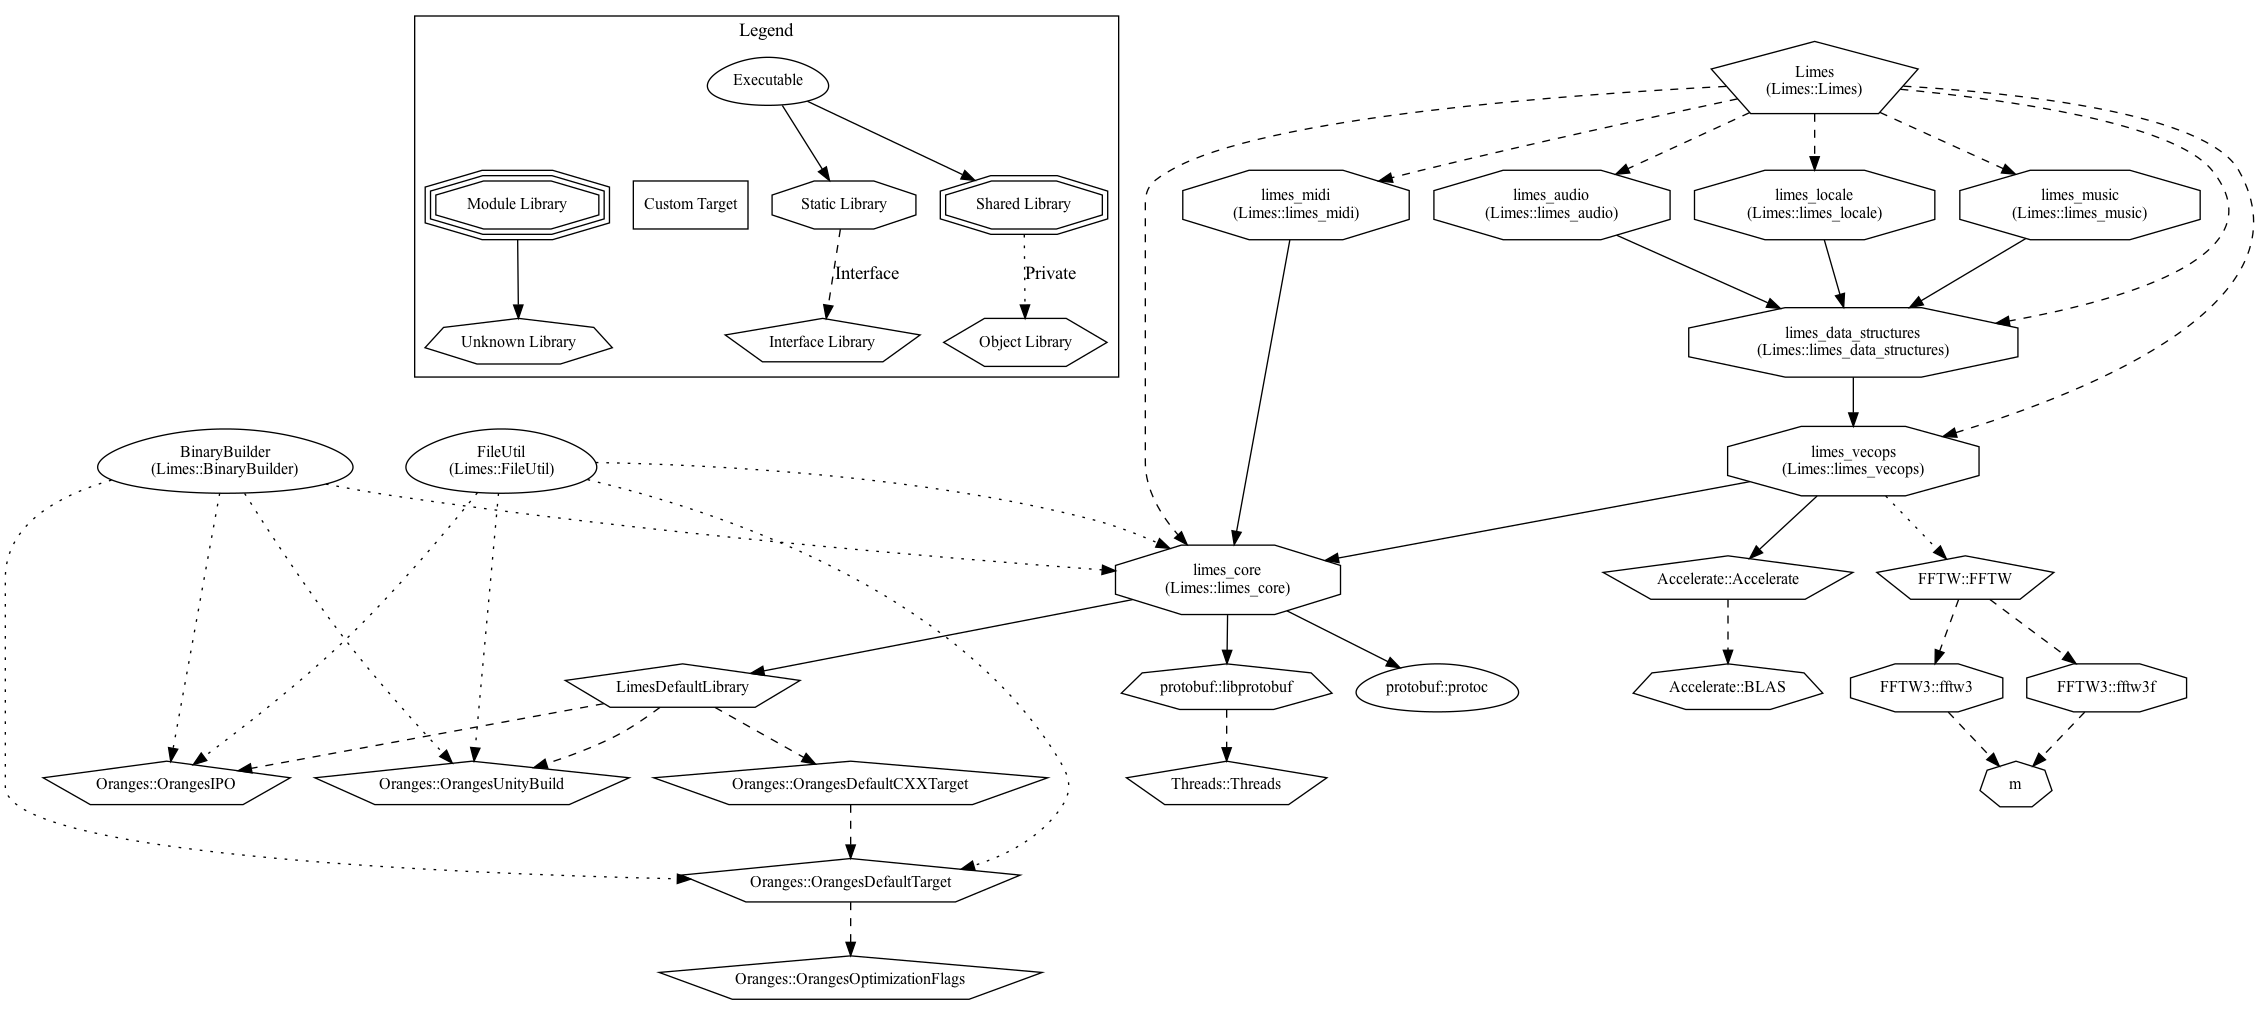
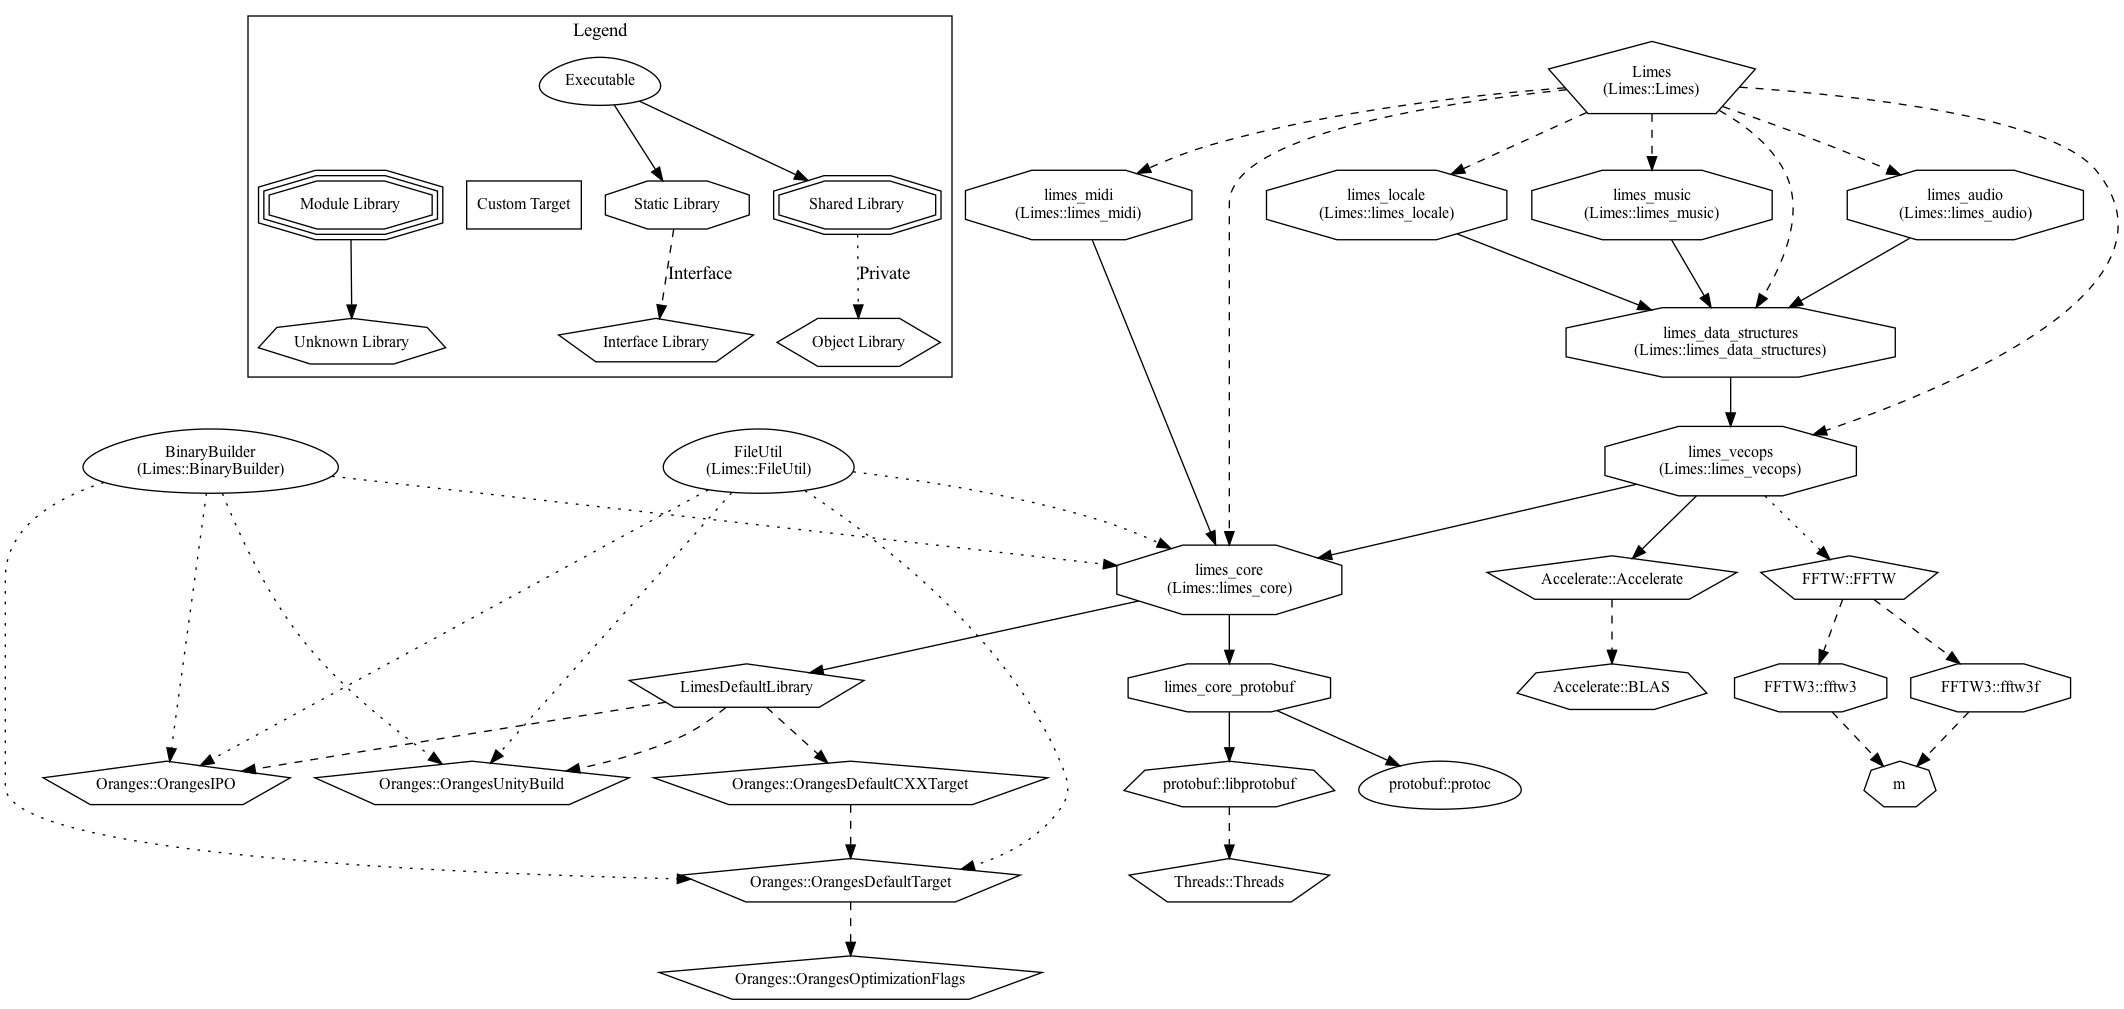
refactor: added Protobuf code generation.
BREAKING CHANGE: The Google Protobuf compiler and library are now required dependencies.

Precommit-Verified: 484b433a6aecfa2ec12fc45b4f13d9601f5c004f1a50ad913660e496c61170e5

diff --git a/libs/limes_core/misc/version/Version.h b/libs/limes_core/misc/version/Version.h
@@ -16,7 +16,7 @@
 #include <limes_export.h>	  // for LIMES_EXPORT
 #include <limes_namespace.h>  // for LIMES_BEGIN_NAMESPACE, LIMES_END_NAMESPACE
 #include <string>			  // for string
-#include "preprocessor.h"	  // for LIMES_CONSTEXPR_COPYABLE, LIMES_CONSTEX...
+#include "../preprocessor.h"  // for LIMES_CONSTEXPR_COPYABLE, LIMES_CONSTEX...
 #include <functional>		  // for std::hash
 
 /** @defgroup misc Miscellaneous

diff --git a/libs/limes_core/limes_core.h b/libs/limes_core/limes_core.h
@@ -46,7 +46,7 @@
 #include "misc/preprocessor.h"
 #include "misc/IgnoreUnused.h"
 #include "misc/Algorithm.h"
-#include "misc/Version.h"
+#include "misc/version/Version.h"
 #include "misc/Functions.h"
 #include "misc/streams.h"
 

diff --git a/README.md b/README.md
@@ -73,6 +73,8 @@ Limes's CMake configuration depends on [Oranges](https://github.com/benthevining
 You can set the environment or command-line variables `ORANGES_PATH` to point Limes to a local copy; if it is already installed on your system, it should be found automatically.
 Otherwise, the Oranges source code will be downloaded from GitHub at configure time, using CMake's FetchContent module.
 
+The Google Protobuf package is required; it is used for serialization of Limes objects.
+
 ### Targets
 
 Limes creates the following CMake targets:
